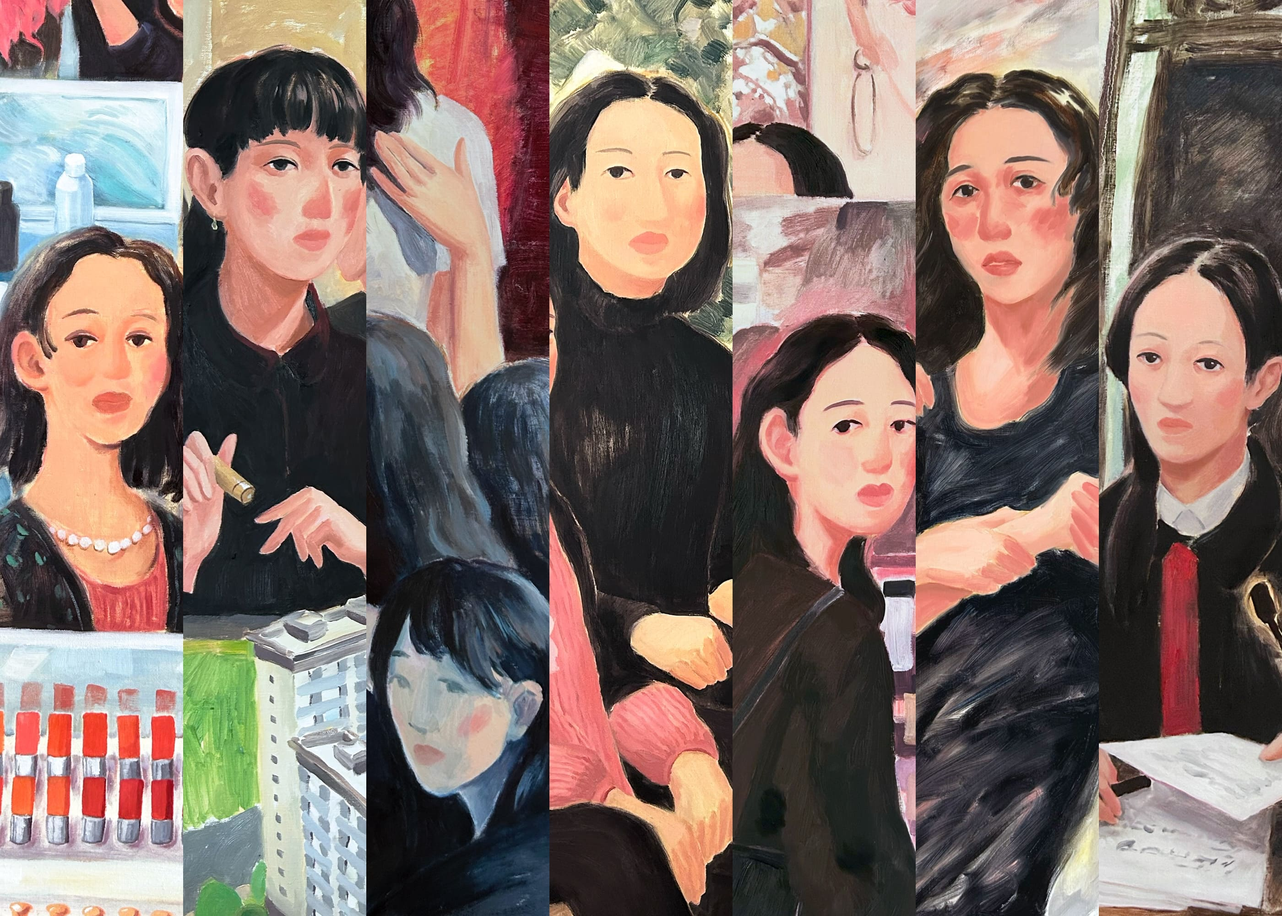
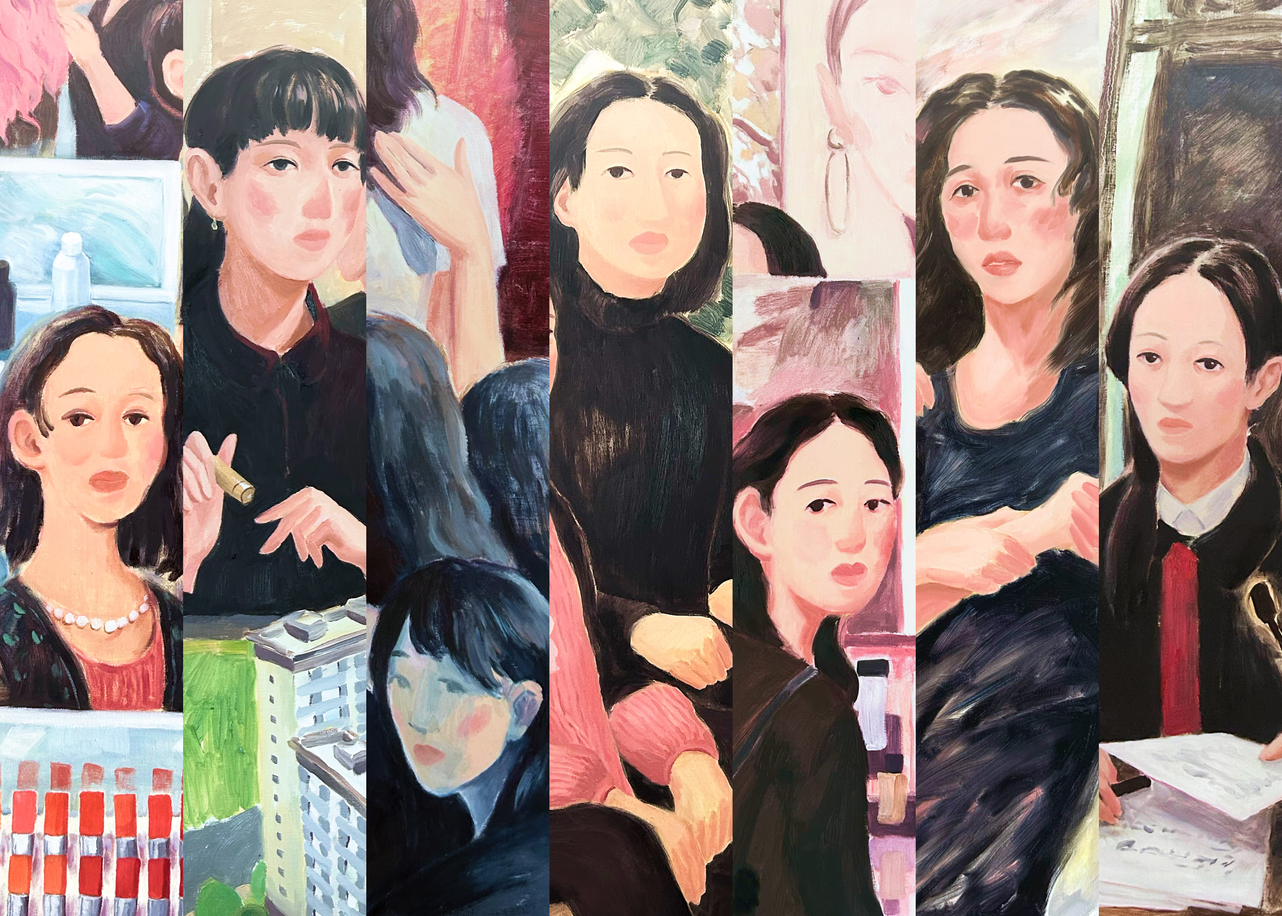
rsm循环头图

diff --git a/rsm/rsm.html b/rsm/rsm.html
@@ -30,9 +30,26 @@
             </div>
         </nav>
     </div>
-
     <div class="headerback">
         <div class="header-rsmbg">
+            <div class="scroll-container">
+                <!-- 原始图片组 -->
+                <img src="../assets/RSM-bg/rsmbg1.jpg" alt="RSM background">
+                <img src="../assets/RSM-bg/rsmbg2.jpg" alt="RSM background">
+                <img src="../assets/RSM-bg/rsmbg3.jpg" alt="RSM background">
+                <img src="../assets/RSM-bg/rsmbg4.jpg" alt="RSM background">
+                <img src="../assets/RSM-bg/rsmbg5.jpg" alt="RSM background">
+                <img src="../assets/RSM-bg/rsmbg6.jpg" alt="RSM background">
+                <img src="../assets/RSM-bg/rsmbg7.jpg" alt="RSM background">
+                <!-- 复制一组图片实现无缝循环 -->
+                <img src="../assets/RSM-bg/rsmbg1.jpg" alt="RSM background">
+                <img src="../assets/RSM-bg/rsmbg2.jpg" alt="RSM background">
+                <img src="../assets/RSM-bg/rsmbg3.jpg" alt="RSM background">
+                <img src="../assets/RSM-bg/rsmbg4.jpg" alt="RSM background">
+                <img src="../assets/RSM-bg/rsmbg5.jpg" alt="RSM background">
+                <img src="../assets/RSM-bg/rsmbg6.jpg" alt="RSM background">
+                <img src="../assets/RSM-bg/rsmbg7.jpg" alt="RSM background">
+            </div>
         </div>
     </div>
 

diff --git a/rsm/rsm.css b/rsm/rsm.css
@@ -1,4 +1,3 @@
-
 .headerback {
     position: relative;
     width: 100%;
@@ -13,11 +12,31 @@
     left: 0;
     width: 100%;
     height: 100%;
-    background-image: url('../assets/rsmbg.jpg');
-    background-size: cover;  /* 覆盖整个容器 */
-    background-position: center;  /* 居中显示 */
-    background-repeat: no-repeat;
+    overflow: hidden;
     z-index: 0;
+}
+
+.scroll-container {
+    height: 100%;
+    display: flex;
+    animation: scroll 60s linear infinite;
+    will-change: transform;
+}
+
+.scroll-container img {
+    height: 100%;
+    width: auto;
+    object-fit: cover;
+    flex-shrink: 0;
+}
+
+@keyframes scroll {
+    0% {
+        transform: translateX(0);
+    }
+    100% {
+        transform: translateX(calc(-100% / 2)); /* 移动一组图片的距离 */
+    }
 }
 
 @keyframes slowRotate {

diff --git a/rsm/rsm.js b/rsm/rsm.js
@@ -45,3 +45,9 @@ document.addEventListener('DOMContentLoaded', () => {
         generateRSMGallery();
     }
 });
+
+document.querySelector('.scroll-container').addEventListener('animationend', function() {
+    this.style.animation = 'none';
+    this.offsetHeight; // 触发回流
+    this.style.animation = 'scroll 60s linear infinite';
+});

diff --git a/styles.css b/styles.css
@@ -681,10 +681,6 @@ body {
     left: 0;
     right: 0;
     height: 80px;
-    /*background: rgba(255, 255, 255, 0.1);*/
-    /*backdrop-filter: blur(40px);*/
-    /*-webkit-backdrop-filter: blur(40px);*/
-    /*border-bottom: 1px solid rgba(0, 0, 0, 0.05);*/
     z-index: 99;
     align-items: center;
     transition: transform 0.5s ease;
